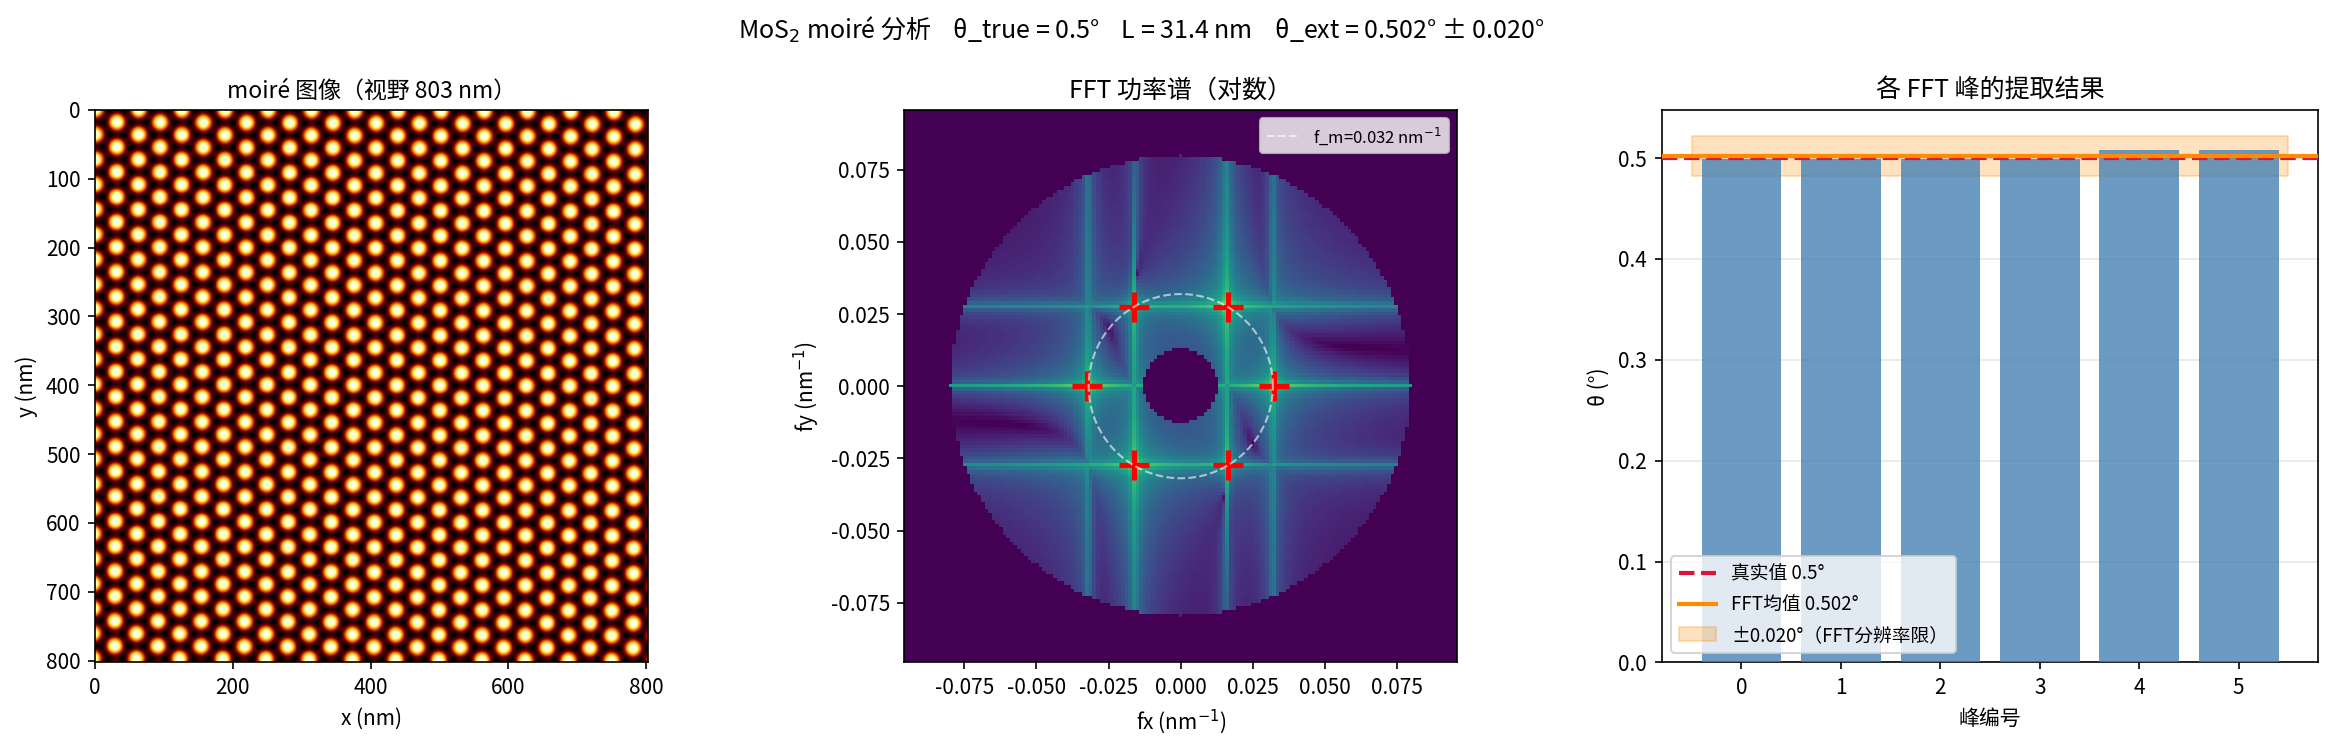
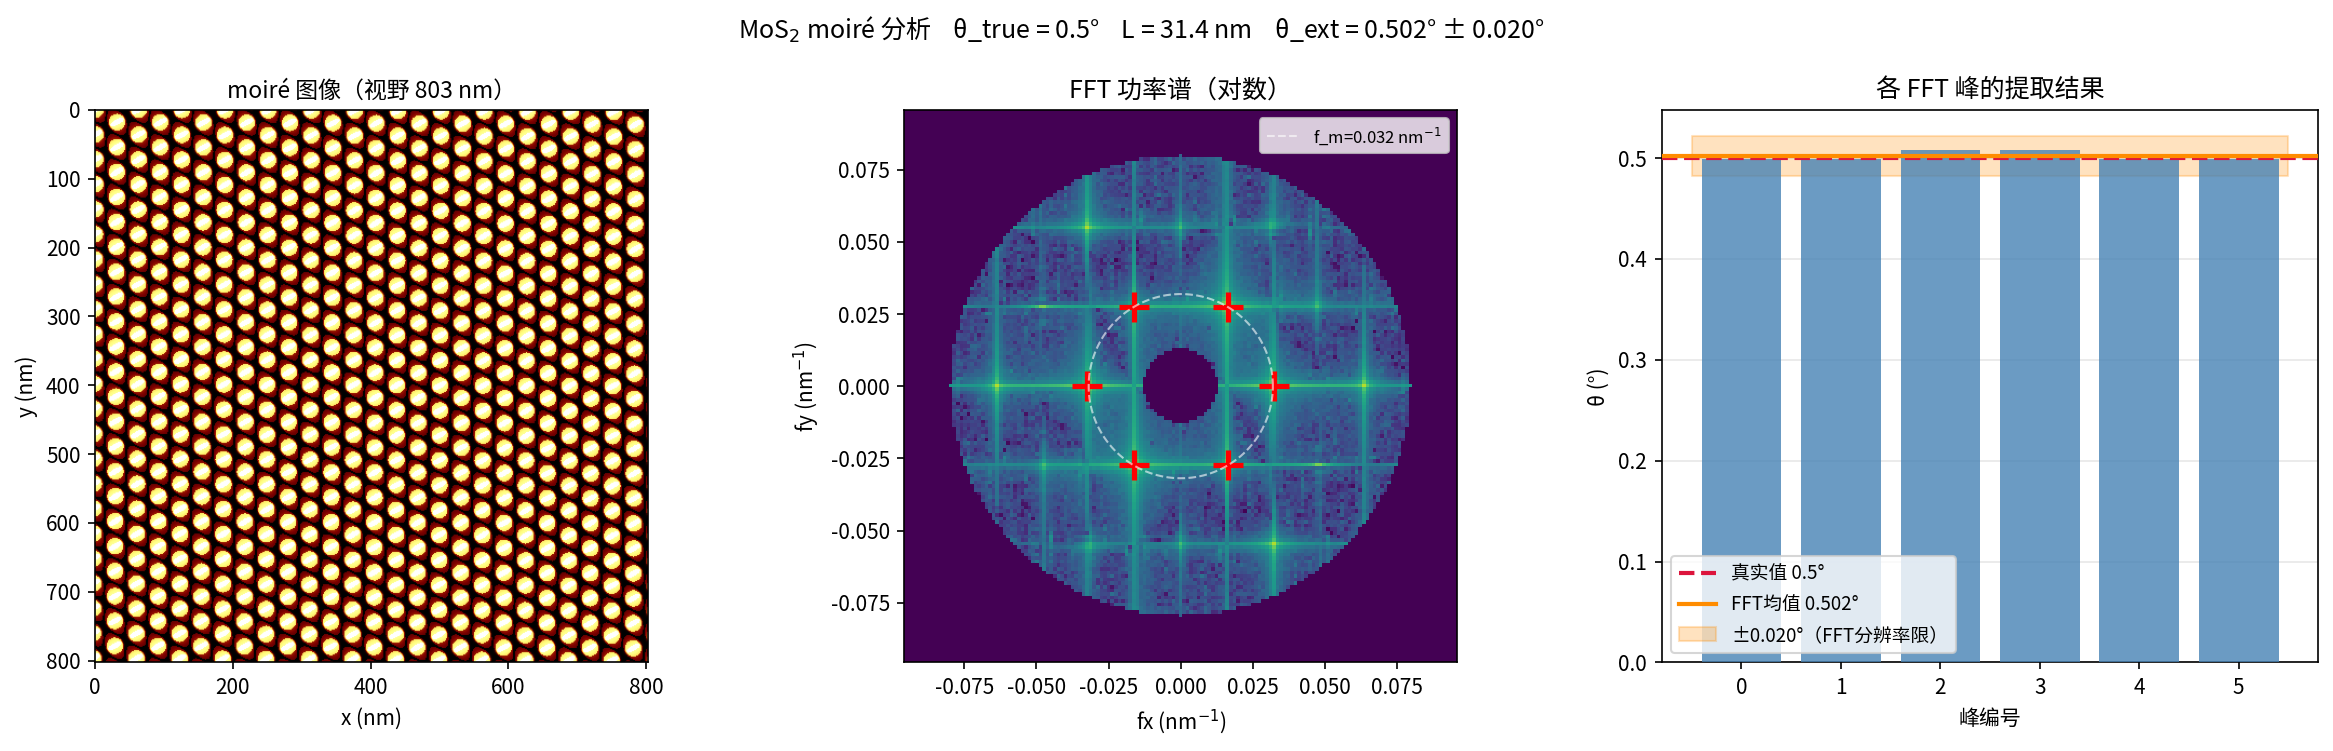
lattice recon: switch to AB/BA two-state domain model

Changed region(s): [[0.0309, 0.1225, 0.2778, 0.8881], [0.4012, 0.1838, 0.6172, 0.8269], [0.8024, 0.1838, 0.9876, 0.2144]]

diff --git a/angle_cnn/moire_pipeline.py b/angle_cnn/moire_pipeline.py
@@ -134,7 +134,9 @@ def generate_moire(theta_deg, a_nm=A_NM, n=N, ppp=PPP,
         R           = np.abs(psi)
         Phi         = np.angle(psi)
         R_sharp     = np.tanh(alpha * R / R.max()) * R.max()
-        phase_quant = np.round(Phi / (np.pi / 3)) * (np.pi / 3)
+        # AB/BA 两态模型：Im(psi) 符号区分两类堆叠域（破坏空间反演对称）
+        domain_sign = np.sign(np.imag(psi))          # +1=AB, -1=BA
+        phase_quant = (domain_sign + 1) / 2 * np.pi  # AB→0, BA→π
         Phi_recon   = (1 - strength) * Phi + strength * phase_quant
         img         = R_sharp * np.cos(Phi_recon)
     else:

diff --git a/angle_cnn/dataset_generator.py b/angle_cnn/dataset_generator.py
@@ -147,7 +147,9 @@ def generate_sample(theta_deg, rng, img_size=IMG_SIZE):
         R           = np.abs(psi)
         Phi         = np.angle(psi)
         R_sharp     = np.tanh(alpha * R / R.max()) * R.max()
-        phase_quant = np.round(Phi / (np.pi / 3)) * (np.pi / 3)
+        # AB/BA 两态模型：Im(psi) 符号区分两类堆叠域（破坏空间反演对称）
+        domain_sign = np.sign(np.imag(psi))          # +1=AB, -1=BA
+        phase_quant = (domain_sign + 1) / 2 * np.pi  # AB→0, BA→π
         Phi_recon   = (1 - strength) * Phi + strength * phase_quant
         img         = R_sharp * np.cos(Phi_recon)
 
